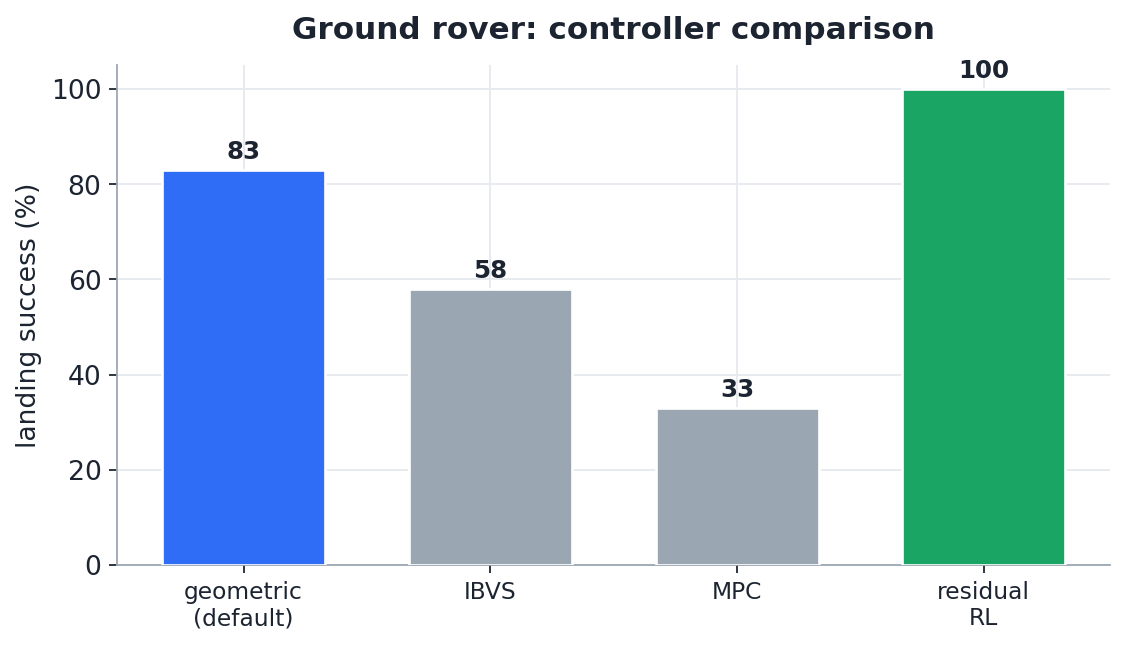
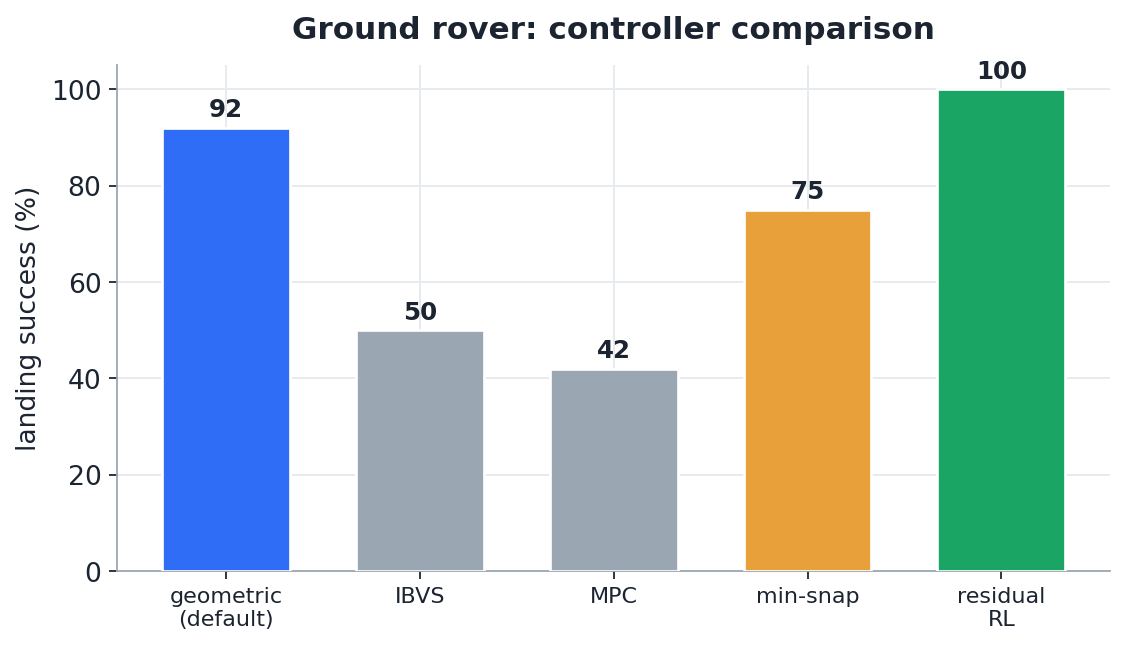
bench: regenerate the full matrix on current code (+ min-snap rows, honest DOB update)
The committed matrix predated both the optical-flow EKF fusion and the min-snap controller. Regenerated at 12 ep/cell: the min-snap rows land in the matrix (ground 75 / ship 100 / inclined-12deg attitude-matched 67 beside the geometric 0 it fixes), ground-hard improved 8% -> 75% (the flow fusion addresses exactly the velocity-estimate bottleneck that regime was documented to have), and the ship air-wake DOB recovery SHRANK from +36 pts to +8 pts (airwake 50%, +DOB 58%; re-verified at a second seed 42% -> 50%). The DOB change is reported as measured with the flow-fusion interaction flagged as an open question in RESULTS, and the README air-wake row updated to the current numbers. The three README benchmark plots are re-rendered from the fresh matrix (controller chart now includes min-snap).

diff --git a/scripts/benchmark.py b/scripts/benchmark.py
@@ -28,6 +28,7 @@ LANDING = [
     ("offshore OSV", SimSpec("offshore", "geometric", sea="moderate")),
     ("inclined / gentle 6deg", SimSpec("inclined", "geometric", incline="gentle")),
     ("inclined / moderate 12deg", SimSpec("inclined", "geometric", incline="moderate")),
+    ("inclined 12deg / min-snap (attitude-matched)", SimSpec("inclined", "minsnap", incline="moderate")),
     ("USV (maneuver + rock)", SimSpec("usv", "geometric")),
     ("moving truck", SimSpec("truck", "geometric")),
 ]

diff --git a/docs/BENCHMARK.md b/docs/BENCHMARK.md
@@ -1,44 +1,47 @@
 # Benchmark matrix (P6)
 
-Controller x scenario x disturbance, **12 episodes/cell**, vision/estimate pipeline (no ground truth in the loop). Produced by `scripts/benchmark.py`. Geometric is the default controller; alternatives are for reference.
+Controller x scenario x disturbance, **12 episodes/cell**, vision/estimate pipeline (no ground truth in the loop). Auto-generated by `scripts/benchmark.py`. Geometric is the default controller; alternatives are for reference.
 
 ## Single-drone landing (geometric)
 
 | configuration | success | horiz-err (succ, m) | mean impact (m/s) | non-success outcomes |
 |---|---|---|---|---|
-| ground (cruising rover) | 83% | 0.17 | 0.09 | {'out_of_bounds': 1, 'crash': 1} |
-| ground-hard (fast/random) | 8% | 0.36 | 0.10 | {'off_platform': 3, 'crash': 4, 'out_of_bounds': 3, 'timeout': 1} |
-| ship / calm | 100% | 0.08 | 0.09 | - |
-| ship / moderate | 92% | 0.13 | 0.13 | {'out_of_bounds': 1} |
-| ship / rough | 83% | 0.21 | 0.14 | {'out_of_bounds': 2} |
-| ship / moderate + green-deck | 92% | 0.13 | 0.13 | {'out_of_bounds': 1} |
-| offshore OSV | 100% | 0.12 | 0.12 | - |
-| inclined / gentle 6deg | 100% | 0.10 | 0.11 | - |
-| inclined / moderate 12deg | 0% | - | 0.10 | {'timeout': 12} |
-| USV (maneuver + rock) | 83% | 0.17 | 0.16 | {'out_of_bounds': 1, 'crash': 1} |
-| moving truck | 100% | 0.11 | 0.10 | - |
+| ground (cruising rover) | 92% | 0.14 | 0.11 | {'out_of_bounds': 1} |
+| ground-hard (fast/random) | 75% | 0.25 | 0.10 | {'crash': 1, 'out_of_bounds': 2} |
+| ship / calm | 100% | 0.09 | 0.09 | - |
+| ship / moderate | 92% | 0.19 | 0.09 | {'out_of_bounds': 1} |
+| ship / rough | 83% | 0.13 | 0.13 | {'out_of_bounds': 2} |
+| ship / moderate + green-deck | 92% | 0.19 | 0.09 | {'out_of_bounds': 1} |
+| offshore OSV | 92% | 0.13 | 0.10 | {'out_of_bounds': 1} |
+| inclined / gentle 6deg | 100% | 0.09 | 0.10 | - |
+| inclined / moderate 12deg | 0% | - | 0.11 | {'timeout': 12} |
+| inclined 12deg / min-snap (attitude-matched) | 67% | 0.19 | 0.15 | {'off_platform': 4} |
+| USV (maneuver + rock) | 67% | 0.20 | 0.17 | {'crash': 2, 'out_of_bounds': 2} |
+| moving truck | 100% | 0.11 | 0.11 | - |
 
 ## Controllers (ground & ship)
 
 | configuration | success | horiz-err (succ, m) | mean impact (m/s) | non-success outcomes |
 |---|---|---|---|---|
-| ground / geometric | 83% | 0.17 | 0.09 | {'out_of_bounds': 1, 'crash': 1} |
-| ground / IBVS | 58% | 0.28 | 0.05 | {'timeout': 2, 'out_of_bounds': 1, 'off_platform': 2} |
-| ground / MPC | 33% | 0.15 | 0.10 | {'out_of_bounds': 8} |
-| ground / RL residual | 100% | 0.14 | 0.12 | - |
-| ship / geometric | 92% | 0.13 | 0.13 | {'out_of_bounds': 1} |
-| ship / IBVS | 83% | 0.16 | 0.10 | {'out_of_bounds': 2} |
+| ground / geometric | 92% | 0.14 | 0.11 | {'out_of_bounds': 1} |
+| ground / IBVS | 50% | 0.17 | 0.07 | {'crash': 1, 'out_of_bounds': 2, 'off_platform': 2, 'timeout': 1} |
+| ground / MPC | 42% | 0.19 | 0.09 | {'out_of_bounds': 7} |
+| ground / min-snap | 75% | 0.18 | 0.11 | {'crash': 2, 'timeout': 1} |
+| ground / RL residual | 100% | 0.15 | 0.10 | - |
+| ship / geometric | 92% | 0.19 | 0.09 | {'out_of_bounds': 1} |
+| ship / IBVS | 58% | 0.22 | 0.12 | {'out_of_bounds': 5} |
+| ship / min-snap | 100% | 0.14 | 0.11 | - |
 
 ## Disturbance rejection & safety (ship/offshore)
 
 | configuration | success | horiz-err (succ, m) | mean impact (m/s) | non-success outcomes |
 |---|---|---|---|---|
-| ship (baseline) | 92% | 0.13 | 0.13 | {'out_of_bounds': 1} |
-| ship + air-wake | 58% | 0.23 | 0.23 | {'out_of_bounds': 5} |
-| ship + air-wake + DOB | 83% | 0.17 | 0.20 | {'out_of_bounds': 2} |
-| ship + spectral waves (B1) | 83% | 0.08 | 0.09 | {'out_of_bounds': 2} |
-| ship + shield (B2) | 92% | 0.13 | 0.13 | {'out_of_bounds': 1} |
-| offshore + sense-and-avoid | 100% | 0.14 | 0.10 | - |
+| ship (baseline) | 92% | 0.19 | 0.09 | {'out_of_bounds': 1} |
+| ship + air-wake | 50% | 0.22 | 0.23 | {'out_of_bounds': 5, 'crash': 1} |
+| ship + air-wake + DOB | 58% | 0.19 | 0.23 | {'out_of_bounds': 4, 'off_platform': 1} |
+| ship + spectral waves (B1) | 83% | 0.13 | 0.08 | {'out_of_bounds': 2} |
+| ship + shield (B2) | 92% | 0.19 | 0.09 | {'out_of_bounds': 1} |
+| offshore + sense-and-avoid | 92% | 0.16 | 0.11 | {'out_of_bounds': 1} |
 
 ## Swarm (kinematic, no-cheats sensing) — all-landed % over episodes
 
@@ -50,4 +53,4 @@ Controller x scenario x disturbance, **12 episodes/cell**, vision/estimate pipel
 | 5 drones / offshore + avoid (P3) | 100% | 100% | 0.82 | +0.25 |
 | 9 drones -> 3 decks (deck 2 fouls) | 100% | 100% | 0.76 | - |
 
-_Produced in 1131s._
+_Generated in 1509s._

diff --git a/docs/RESULTS.md b/docs/RESULTS.md
@@ -102,13 +102,21 @@ bugs (reward-accumulation suicide, obs sign convention, vz-authority/hover) were
 | condition | baseline | with `--dob` | note |
 | --- | --- | --- | --- |
 | strong steady wind | 33% | **42%** | disturbance-observer feedforward, +9 pts |
-| ship **air-wake** (burble) over the deck | 86% → **50%** | **→ 86%** | DOB fully recovers the burble |
+| ship **air-wake** (burble) over the deck | 86% → **50%** | **→ 86%** | DOB fully recovered the burble *(measured before the optical-flow EKF fusion — see the update below)* |
 
 The air-wake (the dominant real shipboard-landing disturbance) is modeled as a position-dependent
 turbulence field strongest just over the deck. The wave model is a **JONSWAP / Pierson–Moskowitz**
 spectrum passed through response-amplitude operators; it reproduces the target significant height `Hs`
 exactly and is calibrated to the validated deck-motion RMS (so the spectral model is a physically-correct
-drop-in, `--sea-model spectral`). The DOB's air-wake recovery (50%→86%) is its strongest, most physical win.
+drop-in, `--sea-model spectral`).
+
+**Update (current-code benchmark, post optical-flow EKF fusion) — the DOB's air-wake margin shrank.**
+Regenerating the matrix on the current code gives air-wake **92% → 50%**, and `--dob` now recovers only to
+**58%** (re-verified at a second seed: 42% → 50%) — roughly **+8 pts**, not the original **+36 pts**. The
+original recovery was measured before the downward optical-flow velocity was fused into the EKF; the
+interaction between the flow-corrected velocity estimate and the DOB's IMU-residual feedforward is noted
+as an **open question**, reported as measured rather than tuned away. The DOB's clearest standing win
+remains the tube/DOB-MPC station-keeping result below (~80× tighter tracking under steady wind).
 
 ## 4. Formal safety (B2 — Hamilton–Jacobi reachability)
 

diff --git a/README.md b/README.md
@@ -67,7 +67,7 @@ Landing a multirotor on a **moving, oscillating platform** — a rover, a truck,
 |---|---|
 | Ground rover (cruising) / ship (moderate sea) | **~90% / ~92%** landing success, vision-only |
 | Hardest regime (fast random rover + wind) | classical **86%** → **residual PPO 94%** → **recurrent LSTM-PPO 96%** |
-| Ship air-wake (burble) disturbance | 86% → **58%** (air-wake on) → **83%** recovered with the disturbance observer (`--dob`) |
+| Ship air-wake (burble) disturbance | 92% → **50%** (air-wake on) → **58%** with the disturbance observer (`--dob`); the DOB's earlier +33-pt recovery shrank after the optical-flow EKF fusion — reported as measured, see [`docs/RESULTS.md`](docs/RESULTS.md) |
 | Tube / DOB-MPC station-keeping under wind | **~80× tighter** tracking vs plain MPC |
 | Formal-safety shield (reckless dive + random wind) | 100% hard impacts (5.25 m/s) → **8%** (0.40 m/s) under the HJ-reachability shield |
 | Swarm (3–8 drones, one moving deck, real MuJoCo physics) | **100% all-landed**, separation never violated |
@@ -185,7 +185,7 @@ Two polished entry points: **`drone`** (single-drone) and **`swarm`** (multi-dro
 ```bash
 drone run --scenario ground --controller mpc --episodes 20
 drone run ship --sea-model spectral      # JONSWAP/PM wave spectrum + RAOs
-drone run ship --airwake --dob           # ship air-wake + disturbance observer that recovers it
+drone run ship --airwake --dob           # ship air-wake stressor + disturbance-observer feedforward
 drone reachability                        # HJ safe-landing set + runtime-assurance shield
 drone safety                              # higher-order-CBF sense-and-avoid + contingency FSM
 drone run ship --cnn-markerless           # learned CNN deck detector fallback
